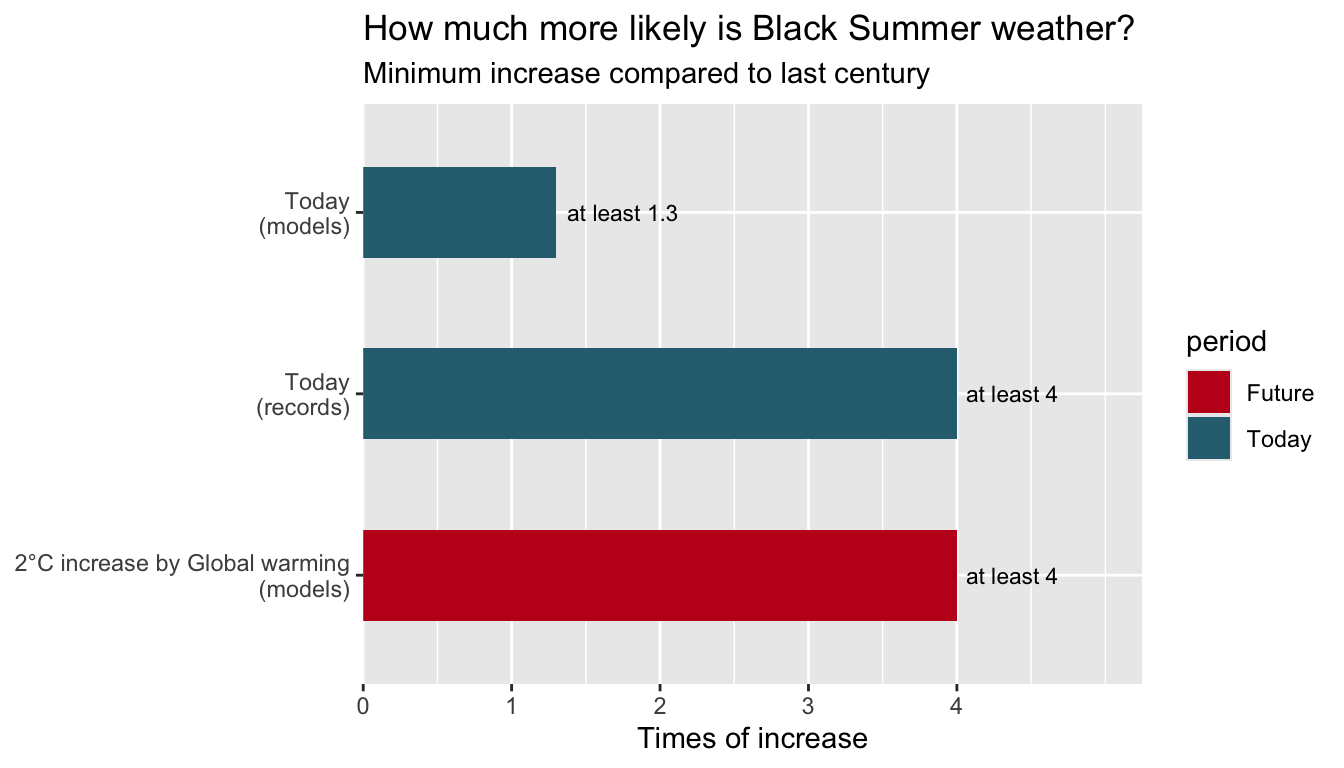
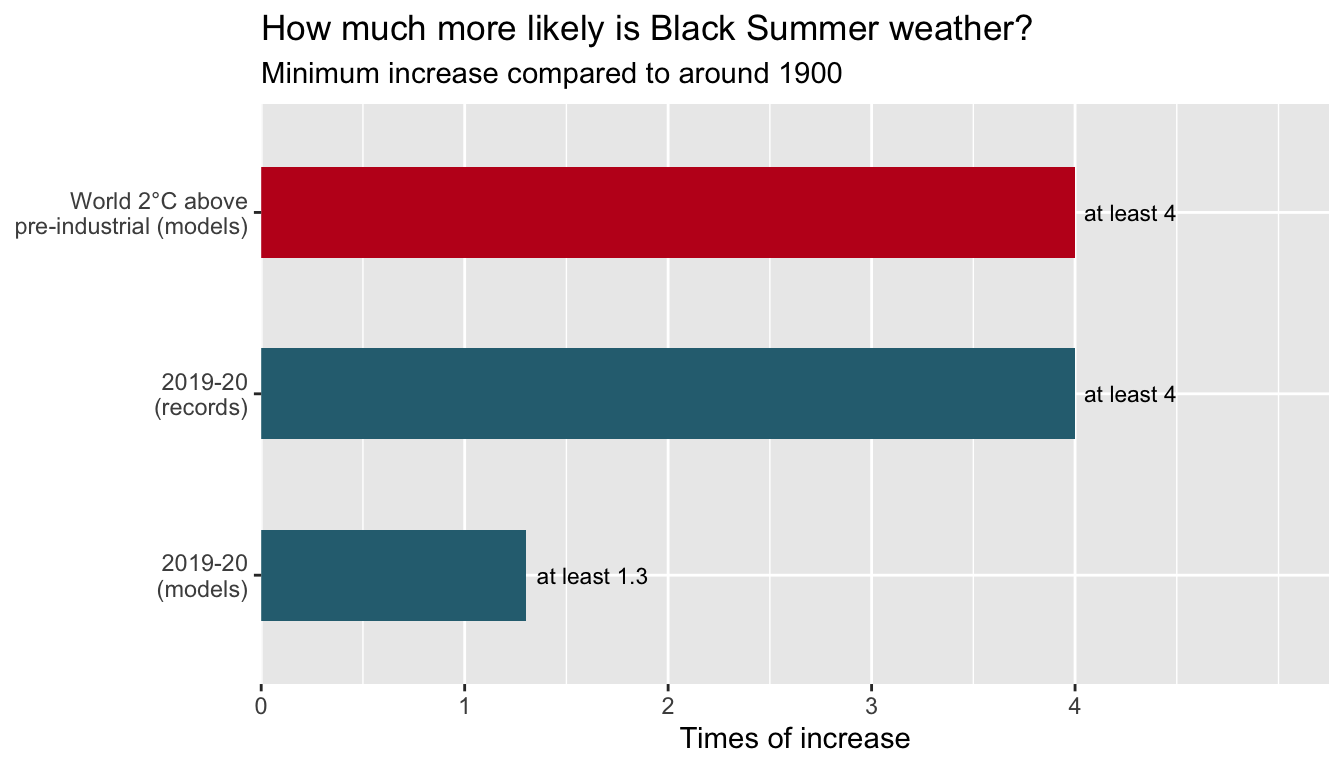
Built site for gh-pages

diff --git a/posts/black_summer.html b/posts/black_summer.html
@@ -114,7 +114,7 @@ div.csl-indent {
             <ul class="navbar-nav navbar-nav-scroll ms-auto">
   <li class="nav-item">
     <a class="nav-link" href="../about.html"> 
-<span class="menu-text">About</span></a>
+<span class="menu-text">Xuanning (Alex) Zhang</span></a>
   </li>  
   <li class="nav-item compact">
     <a class="nav-link" href="https://github.com/xzha0419"> <i class="bi bi-github" role="img">
@@ -169,51 +169,51 @@ div.csl-indent {
 
 
 <p>The sky turned orange over southeastern Australia in the summer of 2019-20. The “Black Summer” bush fires burned more than 19 million hectares of land, killed 34 people and destroyed around 5900 homes and other buildings. Smoke has blanketed cities like Sydney and Canberra, nearly 80% Aussies said their living has been affected. Perhaps you are one of them. So, is it only a disaster season or caused by human activity? A major international research has confirmed that comparing to 1900s, the climate change has increased the occurrence of dangerous fire weather at least 30%, and probably much more <span class="citation" data-cites="vanoldenborgh2021">(<a href="#ref-vanoldenborgh2021" role="doc-biblioref">Oldenborgh et al. 2021</a>)</span>.</p>
-<section id="what-happened-and-what-scientists-asked" class="level2">
-<h2 class="anchored" data-anchor-id="what-happened-and-what-scientists-asked">What happened? And what scientists asked?</h2>
-<p>In that summer, many people who watching this news asked this question, but its harder to answer than it sounds. A bushfire needs ingredients of hot weather, strong winds, dry vegetation and source of ignition like lightning or human. Climate change will not light fires,and there has not fire season can be blamed on single one factor. Thus scientists asked another question: how much more the climate change increased the probability of hot, dry and windy weather which make the fire spread so far? You can even image that every road could happening car accident, but wet road will strongly increase the probability.</p>
-<p>A team of international scientists has compared the likelihood of weather in “Black Summer” to that in last century. They used two evidences: the Australian weather records in recent ten years and computer model of the climate, which can reproduce the weather condition form the beginning of 20th century. These evidences has let scientists counting out the frequency of extreme weather in different periods. The team has divide the research in three aspects: Drought, Extreme heat and overall fire weather.</p>
+<section id="what-happened-and-what-did-scientists-asked" class="level2">
+<h2 class="anchored" data-anchor-id="what-happened-and-what-did-scientists-asked">What happened? And what did scientists asked?</h2>
+<p>In that summer, many people watching this news asked this question, but it is harder to answer than it sounds. A bushfire need ingredients of hot weather, strong winds, dry vegetation and source of ignition like lightning or people. Climate change will not light fires,and there has not fire season can be blamed on single one factor. So scientists asked another question: how much more the climate change increased the probability of hot, dry and windy weather that let the fire spread so far? You can even imagine that every road could happening car accident, but wet road will strongly increase the probability.</p>
+<p>To find out, a team of international scientists has compared the likelihood of weather in “Black Summer” from 2019-20 to that around 1900. They used two kinds evidence: the Australian weather records from 1910 and computer models of the climate, which can simulate the weather condition overtime. These evidences let scientists count out the frequency of extreme weather in different periods. The team has divided the research inyo three aspects: drought, extreme heat and overall fire weather.</p>
 </section>
 <section id="explain-the-evidences" class="level2">
 <h2 class="anchored" data-anchor-id="explain-the-evidences">Explain the Evidences</h2>
-<p>These climate records were from ERA5, it is used to combining the previous climate observation with climate model since 1979. Scientists used “Fire weather index”(FWI) to measure the level of danger weather, it could be view as a dangerous score which combine the temperature, humidity, wind and rainfall into one value, higher FWI means bushfire is easier to start and spread.</p>
-<p>These three factors reflect different situations (<a href="#tbl-finding" class="quarto-xref">Table&nbsp;1</a>). Extreme heat shows a significant relationship, that human-caused climate change has increased at least 200% than extreme heat in December of 2019. The climate record shows if the extreme heat happen around 1900, the temperature of same heat wave will have 1 to 2 °C lower. Drought is different because the team did not found a clear relationship between extreme heat, bu t it does not mean there has no affect on drought by climate change, but did not detected by this research. The drought in 2019 was mainly drove by two climate modes: the Indian Ocean Dipole and the Southern Annular Mode, they separately explained the one of third of drought from July to December. While all factors are considered in FWI, the result is obvious: extreme weather like “Black Summer” have a 30% higher than around 1900 which mainly due to rise in extreme heat.</p>
+<p>The climate records for fire weather came from ERA5, which combines the previous climate observations with climate model since 1979. Scientists used the Fire Weather Index (FWI) to measure how dangerous the weather is, it could be seen as a danger score which combines the temperature, humidity, wind and rainfall into one value, as higher FWI, as bushfire is easier to start and spread. The research focus on most dangerous week of each fire season, as there has more land burned in southeastern Australia with higher FWI, thus it is a useful measurement index.</p>
+<p>These three factors reflect different situations (<a href="#tbl-finding" class="quarto-xref">Table&nbsp;1</a>). Extreme heat shows a clear relationship, that human-caused climate change has increased the probability of hot week twice. The climate record shows if the similar extreme heat happen around 1900, the temperature of same heat wave will have 1 to 2 °C lower. Drought is different because the team did not find a clear relationship in human-caused extreme rainfall shortage, but it does not mean there has no effect on drought by climate change, but did not detect one. The drought in 2019 was mainly drove by two climate modes: the Indian Ocean Dipole and the Southern Annular Mode, both of them explained roughly one-third of the rain fall deficit from July to December in 2019. While all factors are considered in FWI, the result is obvious: extreme weather like “Black Summer” have at least 30% higher than around 1900 which mainly due to rise in extreme heat.</p>
 <div class="cell">
 <div id="tbl-finding" class="cell quarto-float quarto-figure quarto-figure-center anchored">
 <figure class="quarto-float quarto-float-tbl figure">
 <figcaption class="quarto-float-caption-top quarto-float-caption quarto-float-tbl" id="tbl-finding-caption-0ceaefa1-69ba-4598-a22c-09a6ac19f8ca">
-Table&nbsp;1: How climate change affected by three factors in Black Summer’s weather comparing to 1900
+Table&nbsp;1: How climate change affected three factors in Black Summer’s weather comparing to around 1900
 </figcaption>
 <div aria-describedby="tbl-finding-caption-0ceaefa1-69ba-4598-a22c-09a6ac19f8ca">
 <div class="cell-output-display">
 <table class="do-not-create-environment cell caption-top table table-sm table-striped small">
 <colgroup>
-<col style="width: 15%">
-<col style="width: 23%">
-<col style="width: 61%">
+<col style="width: 20%">
+<col style="width: 21%">
+<col style="width: 57%">
 </colgroup>
 <thead>
 <tr class="header">
 <th style="text-align: left;">Factor</th>
-<th style="text-align: left;">Study.Found</th>
-<th style="text-align: left;">Exlplain</th>
+<th style="text-align: left;">Findings</th>
+<th style="text-align: left;">Explanation</th>
 </tr>
 </thead>
 <tbody>
 <tr class="odd">
 <td style="text-align: left;">Extreme heat</td>
-<td style="text-align: left;">At least 2 times as likely</td>
-<td style="text-align: left;">Extreme heat in 2019-20 will be 1–2°C lower if happend in around 1900</td>
+<td style="text-align: left;">At least twice as likely</td>
+<td style="text-align: left;">Heat wave in 2019 Dec will been 1-2 °C cooler if it happen in around 1900</td>
 </tr>
 <tr class="even">
-<td style="text-align: left;">Drought</td>
-<td style="text-align: left;">No clear link to climate change found</td>
-<td style="text-align: left;">Can not reject, model did not detect out their relationship because natural climate mode in 2019</td>
+<td style="text-align: left;">Extreme rainfall shortages</td>
+<td style="text-align: left;">No human-caused trend found</td>
+<td style="text-align: left;">Can’t reject it, the research did not detect a trend in the drought</td>
 </tr>
 <tr class="odd">
-<td style="text-align: left;">Fire weather index (FWI)</td>
-<td style="text-align: left;">At least 1.3 times as likely</td>
-<td style="text-align: left;">Combine the extreme heat, drought and wind, dangerous weather like Black Summer is more likely now</td>
+<td style="text-align: left;">Extreme fire weather</td>
+<td style="text-align: left;">At least 30% more likely</td>
+<td style="text-align: left;">Mainly because extreme heat became more likely</td>
 </tr>
 </tbody>
 </table>
@@ -222,7 +222,7 @@ Table&nbsp;1: How climate change affected by three factors in Black Summer’s w
 </figure>
 </div>
 </div>
-<p>According to climate records, the probability of fire weather like “Black Summer” is now at least four times higher than last century.(<a href="#fig-fire-risk" class="quarto-xref">Figure&nbsp;1</a>) The model also shown that if global temperature increase 2°C above pre-industrial level, the disaster climate will be at least four times than the beginning of 20th century, this kind of risk will keep increasing with global warming.</p>
+<p>According to ERA5 climate records, the probability of fire weather like “Black Summer” is at least four times higher than around 1900 (<a href="#fig-fire-risk" class="quarto-xref">Figure&nbsp;1</a>). The model also suggest that in a world 2°C warmer than pre-industrial level, the disaster climate will be at least four times than the beginning of 20th century. Also, the risk has already risen and predicted to keep rising.</p>
 <div class="cell">
 <div class="cell-output-display">
 <div id="fig-fire-risk" class="quarto-float quarto-figure quarto-figure-center anchored">
@@ -237,12 +237,12 @@ Figure&nbsp;1: The extreme fire weather as Black Summer is now more likely than 
 </div>
 </div>
 </div>
-<p>These data has an important limitation, the climate model tend to underestimate the increasing rate of extreme heat, thus the actual increased risk will larger than expectation. Furthermore, the climate data only cover the time after 1979, but there was a extreme drought in this period and may make the “four times” too high. As these models are also used for prediction, lower bonds should be paid more attention rather than those attractive.</p>
+<p>These data come with an important limitation, the climate model tend to underestimate how quickly extreme heat has increased, thus the actual increased risk could be larger than expectation. Furthermore, the climate data only cover the time after 1979, but there was a drying trend in this period and may make the “four times” too high, the 2°C projection is also based on two models. That is why we should focus on cautious lower bounds rather than the most dramatic numbers.</p>
 </section>
 <section id="not-just-a-bad-summer" class="level2">
 <h2 class="anchored" data-anchor-id="not-just-a-bad-summer">Not just a bad summer</h2>
-<p>Back to our question: Did climate change lead to Black Summer? Climate change not light fire. The evidence shows human-caused climate change increased the probability of dangerous fire weather mainly because it make extreme heat more frequent. The likelihood of extreme heat week in December 2019 has increase at least twice larger than that in 1900s and fire weather like 2019-20 has increased at least 30%, and this risk is still increasing.</p>
-<p>What does this mean for you? If you living in Australia, the heat, drought and windy weather which caused Black Summer is not as rare as a century ago, but more common due to global warming. Here are few steps of self-prevention: Check the danger rating on hot days, cleaning dry leaves and plants near your house on time and set a bushfire plan. <em>No one can stop every fire, but better understanding of risk can help us ready for next Black Summer</em>.</p>
+<p>Back to our question: Did climate change caused Black Summer? Climate change did not light the fires. The evidence shows human-caused climate change increased the probability of dangerous fire weather mainly because it make extreme heat more frequent. The likelihood of extreme heat week in December 2019 has increase at least twice as likely as that around 1900 and fire weather like 2019-20 has increased at least 30%, and this risk is still increasing. The research did not find a clear trend of human-caused rain fall deficits and drought is still an open question.</p>
+<p>What does this mean for you? If you living in southeastern Australia, the fire weather like Black Summer is not as rare as a century ago, but more common due to global warming. Here are few simple steps: Check the danger rating on hot days, cleaning dry leaves and plants near your house on time and set a bushfire plan. <em>No one can stop every fire, but better understanding of risk can help us be ready for the next Black Summer</em>.</p>
 
 
 

diff --git a/about.html b/about.html
@@ -7,7 +7,7 @@
 <meta name="viewport" content="width=device-width, initial-scale=1.0, user-scalable=yes">
 
 
-<title>About – blog-template</title>
+<title>Xuanning (Alex) Zhang – blog-template</title>
 <style>
 code{white-space: pre-wrap;}
 span.smallcaps{font-variant: small-caps;}
@@ -91,7 +91,7 @@ ul.task-list li input[type="checkbox"] {
             <ul class="navbar-nav navbar-nav-scroll ms-auto">
   <li class="nav-item">
     <a class="nav-link active" href="./about.html" aria-current="page"> 
-<span class="menu-text">About</span></a>
+<span class="menu-text">Xuanning (Alex) Zhang</span></a>
   </li>  
   <li class="nav-item compact">
     <a class="nav-link" href="https://github.com/xzha0419"> <i class="bi bi-github" role="img">
@@ -111,27 +111,41 @@ ul.task-list li input[type="checkbox"] {
 <!-- margin-sidebar -->
     
 <!-- main -->
-<div class="quarto-about-jolla">
-  <img src="profile.jpg" class="about-image
-  round " style="height: 15em; width: 15em;">
- <header id="title-block-header" class="quarto-title-block default">
+<div class="quarto-about-trestles">
+  <div class="about-entity">
+    <img src="profile.jpg" class="about-image
+  rounded " style="width: 20em;">
+<header id="title-block-header" class="quarto-title-block default">
 <div class="quarto-title">
-<h1 class="title">About</h1>
+<h1 class="title">Xuanning (Alex) Zhang</h1>
 </div>
 <div class="quarto-title-meta">
   </div>
-</header><main class="content" id="quarto-document-content">
-<p>This is a blog template for the ETC5523 Communicating with Data assessment at Monash University.</p>
-
-
-</main> 
-  <hr class="about-sep">
-   <div class="about-links">
-  <a href="https://github.com/etc5523-2022" class="about-link" rel="" target="">
+</header>
+    <div class="about-links">
+  <a href="https://github.com/xzha0419" class="about-link" rel="" target="">
     <i class="bi bi-github"></i>
-     <span class="about-link-text">Github</span>
+     <span class="about-link-text">GitHub</span>
+  </a>
+  <a href="mailto:xzha0419@student.monash.edu" class="about-link" rel="" target="">
+    <i class="bi bi-envelope"></i>
+     <span class="about-link-text">Email</span>
+  </a>
+  <a href="https://www.linkedin.com/in/xuanning-zhang-173b5831a/" class="about-link" rel="" target="">
+    <i class="bi bi-linkedin"></i>
+     <span class="about-link-text">LinkedIn</span>
   </a>
 </div>
+  </div>
+  <div class="about-contents"><main class="content" id="quarto-document-content">
+<p>Hello, I’m Alex, a <strong>Master of Business Analytics</strong> student at Monash University with a background in <strong>Banking and Finance</strong>. I’m interested in how data can help us understand financial markets and make better decisions.</p>
+<p>During my undergraduate studies, I learned how financial markets work and what can cause them to become unstable. My projects included building a simulated investment portfolio for an investor concerned about risk and responsible investing, studying the Société Générale trading scandal, and exploring how Japan’s low interest rates influenced currency trading. I also studied project management, organisational behaviour and business ethics.</p>
+<p>In my master’s degree, I’ve been learning how to turn data into clear and useful findings. I used government statistics to explore changes in Australia’s seafood industry and worked with a team to compare renewable energy use and carbon emissions across four countries. I’ve also examined how mistakes when combining datasets can affect the results of an analysis. I use <strong>R and the tidyverse</strong> to analyse data, <strong>Quarto</strong> to present my work, and <strong>Git</strong> to track changes and collaborate.</p>
+<p>I aim to make my work clear, honest and easy to check. This means explaining my methods, documenting my steps, sharing code where appropriate and taking care with data privacy. Through this blog, I’m practising how to explain data and research to people without a technical background.</p>
+<p>I’m particularly interested in bringing together finance and data analysis. I’m always happy to connect with others interested in financial markets, data analysis or visualisation.</p>
+
+
+</main></div>
 </div>
  <!-- /main -->
 <script id="quarto-html-after-body" type="application/javascript">

diff --git a/index.html b/index.html
@@ -152,7 +152,7 @@ window.Quarto = {
             <ul class="navbar-nav navbar-nav-scroll ms-auto">
   <li class="nav-item">
     <a class="nav-link" href="./about.html"> 
-<span class="menu-text">About</span></a>
+<span class="menu-text">Xuanning (Alex) Zhang</span></a>
   </li>  
   <li class="nav-item compact">
     <a class="nav-link" href="https://github.com/xzha0419"> <i class="bi bi-github" role="img">
@@ -188,7 +188,7 @@ window.Quarto = {
 <!-- margin-sidebar -->
     <div id="quarto-margin-sidebar" class="sidebar margin-sidebar">
         
-    <h5 class="quarto-listing-category-title">Categories</h5><div class="quarto-listing-category category-default"><div class="category" data-category="">All <span class="quarto-category-count">(2)</span></div><div class="category" data-category="bmV3cw==">news <span class="quarto-category-count">(1)</span></div></div></div>
+    <h5 class="quarto-listing-category-title">Categories</h5><div class="quarto-listing-category category-default"><div class="category" data-category="">All <span class="quarto-category-count">(1)</span></div></div></div>
 <!-- main -->
 <main class="content quarto-banner-title-block column-page-left" id="quarto-document-content">
 
@@ -202,7 +202,7 @@ window.Quarto = {
 
 <div class="quarto-listing quarto-listing-container-default" id="listing-listing">
 <div class="list quarto-listing-default">
-<div class="quarto-post image-right" data-index="0" data-listing-date-sort="1791637200000" data-listing-file-modified-sort="1791644653682" data-listing-date-modified-sort="NaN" data-listing-reading-time-sort="6" data-listing-word-count-sort="1184">
+<div class="quarto-post image-right" data-index="0" data-listing-date-sort="1791637200000" data-listing-file-modified-sort="1791692607960" data-listing-date-modified-sort="NaN" data-listing-reading-time-sort="7" data-listing-word-count-sort="1255">
 <div class="thumbnail"><a href="./posts/black_summer.html" class="no-external">
 
 <p class="card-img-top"><img src="posts/black_summer_files/figure-html/fig-fire-risk-1.png"  class="thumbnail-image card-img"/></p>
@@ -223,36 +223,6 @@ Oct 11, 2026
 </div>
 <div class="listing-author">
 Xuanning Zhang
-</div>
-</a>
-</div>
-</div>
-<div class="quarto-post image-right" data-index="1" data-categories="bmV3cw==" data-listing-date-sort="1658066400000" data-listing-file-modified-sort="1791116232962" data-listing-date-modified-sort="NaN" data-listing-reading-time-sort="1" data-listing-word-count-sort="10">
-<div class="thumbnail"><a href="./posts/welcome/index.html" class="no-external">
-
-<p class="card-img-top"><img src="posts/welcome/thumbnail.jpg"  class="thumbnail-image card-img"/></p>
-
-</a></div>
-<div class="body">
-<h3 class="no-anchor listing-title">
-<a href="./posts/welcome/index.html" class="no-external">Welcome To My Blog Template</a>
-</h3>
-<div class="listing-categories">
-
-<div class="listing-category" onclick="window.quartoListingCategory('bmV3cw=='); return false;">news</div>
-
-</div>
-<div class="delink listing-description"><a href="./posts/welcome/index.html" class="no-external">
-This is the first post in a Quarto blog. Welcome!
-</a></div>
-</div>
-<div class="metadata">
-<a href="./posts/welcome/index.html" class="no-external">
-<div class="listing-date">
-Jul 18, 2022
-</div>
-<div class="listing-author">
-Emi Tanaka
 </div>
 </a>
 </div>
